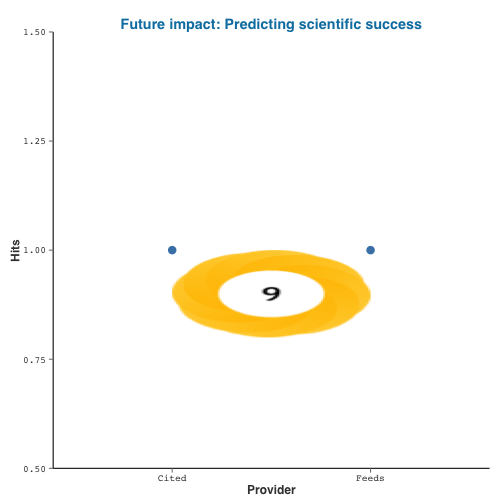
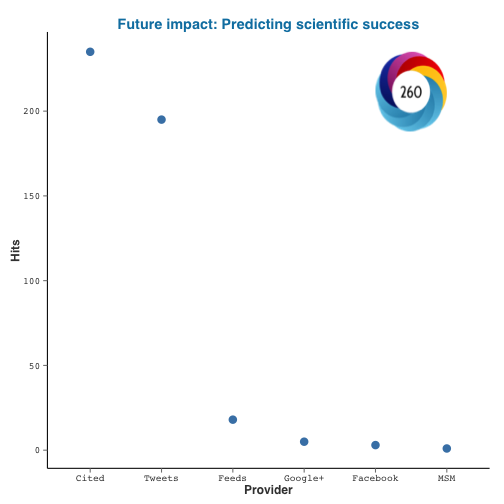
rAltmetric updated #61
The output from plos might be excessive though. Thoughts @sckott?

diff --git a/tutorials/rAltmetric_tutorial.md b/tutorials/rAltmetric_tutorial.md
@@ -61,9 +61,13 @@ acuna
 ```
 ## Altmetrics on: "Future impact: Predicting scientific success" with altmetric_id: 958760 published in Nature.
 ##   provider count
-## 1    Feeds     1
-## 2    Cited     1
-## 3 Accounts     1
+## 1 Facebook     3
+## 2    Feeds    18
+## 3  Google+     5
+## 4      MSM     1
+## 5    Cited   235
+## 6   Tweets   195
+## 7 Accounts   222
 ```
 
 ### Data
@@ -76,24 +80,28 @@ altmetric_data(acuna)
 ```
 
 ```
-##                                          title             doi   nlmid
-## 2 Future impact: Predicting scientific success 10.1038/489201a 0410462
-##              altmetric_jid                issns journal altmetric_id
-## 2 4f6fa50a3cf058f610003160 0028-0836,1476-4687,  Nature       958760
-##   schema is_oa cited_by_feeds_count cited_by_gplus_count
-## 2  1.5.4 FALSE                    1                   NA
+##                                          title             doi     pmid
+## 2 Future impact: Predicting scientific success 10.1038/489201a 22972278
+##     nlmid              ads_id            altmetric_jid
+## 2 0410462 2012natur.489..201a 4f6fa50a3cf058f610003160
+##                  issns journal altmetric_id schema cited_by_gplus_count
+## 2 0028-0836,1476-4687,  Nature       958760  1.5.4                    5
 ##   cited_by_fbwalls_count cited_by_posts_count cited_by_tweeters_count
-## 2                     NA                    1                      NA
-##   cited_by_accounts_count cited_by_feeds_count.1 cited_by_rdts_count
-## 2                       1                      1                  NA
+## 2                      3                   NA                      NA
+##   cited_by_accounts_count cited_by_feeds_count cited_by_rdts_count
+## 2                      NA                   NA                  NA
 ##   cited_by_msm_count cited_by_delicious_count cited_by_forum_count
-## 2                 NA                       NA                   NA
-##   cited_by_qs_count cited_by_rh_count score mendeley connotea citeulike
-## 2                NA                NA 8.192      168        0        18
+## 2                  1                       NA                   NA
+##   cited_by_qs_count cited_by_rh_count X18_cited_by_feeds_count
+## 2                NA                NA                       18
+##   X195_cited_by_tweeters_count X222_cited_by_accounts_count
+## 2                          195                          222
+##   X235_cited_by_posts_count score mendeley connotea citeulike
+## 2                       235 259.9      171        0        18
 ##                                 url  added_on published_on subjects
 ## 2 http://dx.doi.org/10.1038/489201a 1.348e+09    1.347e+09 science,
 ##   scopus_subjects last_updated readers_count
-## 2       General,     1.349e+09           186
+## 2       General,     1.405e+09           189
 ##                                               details_url
 ## 2 http://www.altmetric.com/details.php?citation_id=958760
 ```
@@ -126,7 +134,7 @@ Install `rplos` (v0.3.6) if you don't have it. See [here](https://github.com/rop
 
 ```r
 library(rplos)
-dois <- searchplos(terms="*:*", fields='id', toquery='doc_type:full', start=0, limit=75)$id
+dois <- searchplos(q = "*:*", fl = 'id', fq = 'doc_type:full', start = 0, limit = 75)$id
 ```
 
 First, let's retrieve the metrics.
@@ -146,27 +154,41 @@ head(metric_data[,c(1:10)])
 ```
 
 ```
-##                                                                                                                                           title
-## 1                         Imaging Long-Term Fate of Intramyocardially Implanted Mesenchymal Stem Cells in a Porcine Myocardial Infarction Model
-## 2                                    Dietary Fiber, Carbohydrate Quality and Quantity, and Mortality Risk of Individuals with Diabetes Mellitus
-## 3                                                                                   Collapse of a Marine Mammal Species Driven by Human Impacts
-## 4 Instruments Measuring Externalizing Mental Health Problems in Immigrant Ethnic Minority Youths: A Systematic Review of Measurement Properties
-## 5                   Ascorbic Acid and a Cytostatic Inhibitor of Glycolysis Synergistically Induce Apoptosis in Non-Small Cell Lung Cancer Cells
-## 6                     Examining the Role of Effective Population Size on Mitochondrial and Multilocus Divergence Time Discordance in a Songbird
+##                                                                                                                                                      title
+## 1                                                                   ECO: A Generic Eutrophication Model Including Comprehensive Sediment-Water Interaction
+## 2                                                     Complex Visual Search in Children and Adolescents: Effects of Age and Performance on fMRI Activation
+## 3                                                                           Microsatellite Instability in Chicken Lymphoma Induced by Gallid Herpesvirus 2
+## 4                                                                             Direct Ex-Vivo Evaluation of Pneumococcal Specific T-Cells in Healthy Adults
+## 5 Alcohol-related dysfunction in working-age men in izhevsk, Russia: an application of structural equation models to study the association with education.
+## 6                                                     Sex Promotes Spatial and Dietary Segregation in a Migratory Shorebird during the Non-Breeding Season
 ##                            doi     pmid     nlmid            altmetric_jid
-## 1 10.1371/journal.pone.0022949 21912635 101285081 4f6fa5313cf058f6100043e3
-## 2 10.1371/journal.pone.0043127 22927948 101285081 4f6fa5313cf058f6100043e3
-## 3 10.1371/journal.pone.0043130 23028446 101285081 4f6fa5313cf058f6100043e3
-## 4 10.1371/journal.pone.0063109 23704892 101285081 4f6fa5313cf058f6100043e3
-## 5 10.1371/journal.pone.0067081     <NA> 101285081 4f6fa5313cf058f6100043e3
-## 6 10.1371/journal.pone.0055161 23457463 101285081 4f6fa5313cf058f6100043e3
-##        issns  journal altmetric_id schema is_oa
-## 1 1932-6203, PLoS ONE       251031  1.5.4 FALSE
-## 2 1932-6203, PLoS ONE       910214  1.5.4 FALSE
-## 3 1932-6203, PLOS ONE       955528  1.5.4 FALSE
-## 4 1932-6203, PLOS ONE      1499202  1.5.4 FALSE
-## 5 1932-6203, PLOS ONE      1549608  1.5.4 FALSE
-## 6 1932-6203, PLOS ONE      1244556  1.5.4 FALSE
+## 1 10.1371/journal.pone.0068104 23844160 101285081 4f6fa5313cf058f6100043e3
+## 2 10.1371/journal.pone.0085168 24376871 101285081 4f6fa5313cf058f6100043e3
+## 3 10.1371/journal.pone.0068058 23844155 101285081 4f6fa5313cf058f6100043e3
+## 4 10.1371/journal.pone.0025367 22039412 101285081 4f6fa5313cf058f6100043e3
+## 5 10.1371/journal.pone.0063792 23667673 101285081 4f6fa5313cf058f6100043e3
+## 6 10.1371/journal.pone.0033811 22479448 101285081 4f6fa5313cf058f6100043e3
+##        issns  journal
+## 1 1932-6203, PLOS ONE
+## 2 1932-6203, PLOS ONE
+## 3 1932-6203, PLOS ONE
+## 4 1932-6203, PLoS ONE
+## 5 1932-6203, PloS one
+## 6 1932-6203, PLoS ONE
+##                                                                                                                                                                                                                                                                                                                                                                                                                                                                                                                                                                                                                                                                                                                                                                                                                                                                                                                                                                                                                                                                                                                                                                                                                                                                                                                                                                                                                                                                                                                                                                                                                                                                                                                                                                                                                                                                                                                                                                                                                                                                                                                                                                                                                                                       abstract
+## 1                                                                                                                                                                                                                                                                                                                           The content and calibration of the comprehensive generic 3D eutrophication model ECO for water and sediment quality is presented. Based on a computational grid for water and sediment, ECO is used as a tool for water quality management to simulate concentrations and mass fluxes of nutrients (N, P, Si), phytoplankton species, detrital organic matter, electron acceptors and related substances. ECO combines integral simulation of water and sediment quality with sediment diagenesis and closed mass balances. Its advanced process formulations for substances in the water column and the bed sediment were developed to allow for a much more dynamic calculation of the sediment-water exchange fluxes of nutrients as resulting from steep concentration gradients across the sediment-water interface than is possible with other eutrophication models. ECO is to more accurately calculate the accumulation of organic matter and nutrients in the sediment, and to allow for more accurate prediction of phytoplankton biomass and water quality in response to mitigative measures such as nutrient load reduction. ECO was calibrated for shallow Lake Veluwe (The Netherlands). Due to restoration measures this lake underwent a transition from hypertrophic conditions to moderately eutrophic conditions, leading to the extensive colonization by submerged macrophytes. ECO reproduces observed water quality well for the transition period of ten years. The values of its process coefficients are in line with ranges derived from literature. ECO's calculation results underline the importance of redox processes and phosphate speciation for the nutrient return fluxes. Among other things, the results suggest that authigenic formation of a stable apatite-like mineral in the sediment can contribute significantly to oligotrophication of a lake after a phosphorus load reduction.
+## 2                                                                                                                                                                                                                                                                                                                                                                                                                                                                                                                                                                                                                                                          Complex visuospatial processing relies on distributed neural networks involving occipital, parietal and frontal brain regions. Effects of physiological maturation (during normal brain development) and proficiency on tasks requiring complex visuospatial processing have not yet been studied extensively, as they are almost invariably interrelated. We therefore aimed at dissociating the effects of age and performance on functional MRI (fMRI) activation in a complex visual search task. In our cross-sectional study, healthy children and adolescents (n = 43, 19 females, 7-17 years) performed a complex visual search task during fMRI. Resulting activation was analysed with regard to the differential effects of age and performance. Our results are compatible with an increase in the neural network's efficacy with age: within occipital and parietal cortex, the core regions of the visual exploration network, activation increased with age, and more so in the right than in the left hemisphere. Further, activation outside the visual search network decreased with age, mainly in left inferior frontal, middle temporal, and inferior parietal cortex. High-performers had stronger activation in right superior parietal cortex, suggesting a more mature visual search network. We could not see effects of age or performance in frontal cortex. Our results show that effects of physiological maturation and effects of performance, while usually intertwined, can be successfully disentangled and investigated using fMRI in children and adolescents.
+## 3                                                                                                                                                                                                                                                                                                                                                                                                                                                                                                                                                                                                                                                                                                                                                                                                                                                                                                                                                                                                                                                                                                                                                                                                                                                                                                                                                            Microsatellite instability (MSI) has been found in a range of human tumors, and little is known of the links between MSI and herpesvirus. In order to investigate the relationship between MSI and Gallid herpesvirus 2 (GaHV-2)-induced lymphoma, fifteen Marek's disease (MD) lymphomas were analyzed through using 46 microsatellite markers, which were amplified by PCR from DNA specimens of lymphoma and normal muscular tissues from the same chicken. PCR products were evaluated by denaturing polyacrylamide gel electrophoresis for MSI analysis. MSI was proved in all lymphomas, at least in one locus. Thirty of the 46 microsatellite markers had microsatellite alterations. These results suggested that GaHV-2-induced lymphoma in chickens is related to MSI, and this is the first report to demonstrate that MSI is associated with the GaHV-2 induced lymphoma in chicken.
+## 4                                                                                                                                                                                                                                                                                                                                                                                                                           Streptococcus pneumoniae is an encapsulated bacterium that causes significant global morbidity and mortality. The nasopharynxes of children are believed to be the natural reservoir of pneumococcus and by adulthood nasopharyngeal carriage is infrequent; such infrequency may be due to demonstrable pneumococcal specific T and B-cell responses. HLA Class 2 tetrameric complexes have been used to characterise antigen specific T-cell responses in a variety of models of infection. We therefore sought to determine the frequency and phenotype of pneumococcal specific T-cells, using a novel HLA-DRB1*1501 tetramer complex incorporating a recently defined T-cell epitope derived from the conserved pneumococcal serine/threonine kinase (StkP). We were able to detect direct ex-vivo StkP(446-60)-tetramer binding in HLA-DRB1*1501 adults. These StkP(446-60)-tetramer binding T-cells had increased CD38 expression and were enriched in CCR7- CD45RA+ expression indicating recent and on-going activation and differentiation. Furthermore, these StkP(446-60)-tetramer binding T-cells demonstrated rapid effector function by secreting interferon-gamma on stimulation with recombinant StkP. This is the first study to directly enumerate and characterise pneumococcal specific T-cells using HLA class 2 tetrameric complexes. We found that ex-vivo pneumococcal-specific T cells were detectable in healthy adults and that they were enriched with cell surface markers associated with recent antigen exposure and later stages of antigen-driven differentiation. It is likely that these activated pneumococcal specific T-cells reflect recent immunostimulatory pneumococcal exposure in the nasopharynx and it is possible that they may be preventing subsequent colonisation and disease.
+## 5                                                                                                                                                                                                                                                                                                                                                                                                                                                                                                                                                                                                                                                                                                                                                                                                                                                                                                                                                                                                                                                                                                                                                                                                                                                                                                                                                                                                                                                                                                                                                                                                                                                                                                                                                                                                                                                                                                                                                                                Acute alcohol-related dysfunctional behaviours, such as hangover, are predictive of poor health and mortality. Although much is known about the association of education with alcohol consumption, little is known about its association with these dysfunctional behaviours.
+## 6 Several expressions of sexual segregation have been described in animals, especially in those exhibiting conspicuous dimorphism. Outside the breeding season, segregation has been mostly attributed to size or age-mediated dominance or to trophic niche divergence. Regardless of the recognized implications for population dynamics, the ecological causes and consequences of sexual segregation are still poorly understood. We investigate the foraging habits of a shorebird showing reversed sexual dimorphism, the black-tailed godwit Limosa limosa, during the winter season, and found extensive segregation between sexes in spatial distribution, microhabitat use and dietary composition. Males and females exhibited high site-fidelity but differed in their distributions at estuary-scale. Male godwits (shorter-billed) foraged more frequently in exposed mudflats than in patches with higher water levels, and consumed more bivalves and gastropods and fewer polychaetes than females. Females tended to be more frequently involved and to win more aggressive interactions than males. However, the number of aggressions recorded was low, suggesting that sexual dominance plays a lesser role in segregation, although its importance cannot be ruled out. Dimorphism in the feeding apparatus has been used to explain sex differences in foraging ecology and behaviour of many avian species, but few studies confirmed that morphologic characteristics drive individual differences within each sex. We found a relationship between resource use and bill size when pooling data from males and females. However, this relationship did not hold for either sex separately, suggesting that differences in foraging habits of godwits are primarily a function of sex, rather than bill size. Hence, the exact mechanisms through which this segregation operates are still unknown. The recorded differences in spatial distribution and resource use might expose male and female to distinct threats, thus affecting population dynamics through differential mortality. Therefore, population models and effective conservation strategies should increasingly take sex-specific requirements into consideration.
+##   abstract_source altmetric_id
+## 1          pubmed      1720380
+## 2          pubmed      2001416
+## 3          pubmed      1641349
+## 4          pubmed         <NA>
+## 5          pubmed      1479160
+## 6          pubmed         <NA>
 ```
 
 Finally we save this to a spreadsheet for further analysis/vizualization.
